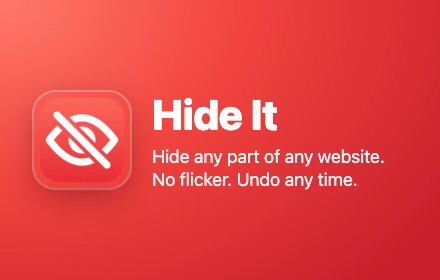
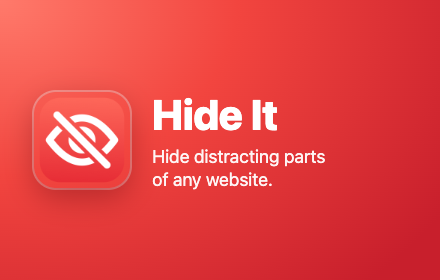
[main] - Tagline: hide distracting parts

Changed region(s): [[0.325, 0.5143, 0.8864, 0.6857]]

diff --git a/store/make-assets.js b/store/make-assets.js
@@ -136,7 +136,7 @@ function promoTile(icon) {
     <img src="${dataUrl(icon)}" style="width:96px;height:96px;border-radius:22px;box-shadow:0 10px 30px rgba(80,0,10,.35),0 0 0 2px rgba(255,255,255,.35)">
     <div>
       <div style="font-size:42px;font-weight:800;letter-spacing:-.5px">Hide It</div>
-      <div style="margin-top:6px;font-size:18px;line-height:1.3;opacity:.95">Hide any part of any website.<br>No flicker. Undo any time.</div>
+      <div style="margin-top:6px;font-size:18px;line-height:1.3;opacity:.95">Hide distracting parts<br>of any website.</div>
     </div>
   </body></html>`;
 }

diff --git a/store/LISTING.md b/store/LISTING.md
@@ -7,14 +7,14 @@ Images: `store/assets/` (re-render with `node store/make-assets.js`).
 
 **Name:** Hide It
 
-**Summary** (same as the manifest description, 89/132 chars):
-Hide parts of websites. Hidden elements stay hidden and never show up while a page loads.
+**Summary** (same as the manifest description, 90/132 chars):
+Hide distracting parts of websites. They stay hidden and never show up while a page loads.
 
 **Category:** Productivity → Tools · **Language:** English
 
 **Description:**
 
-Hide sidebars, suggestion boxes, promos or anything else on a website. They stay hidden every time you come back, and they don't show up while the page loads.
+Hide distracting content on websites: sidebars, suggestion boxes, promos or anything else. It stays hidden every time you come back and doesn't show up while the page loads.
 
 How to use it:
 • Click the icon or press Alt+Shift+H, then point at the page.

diff --git a/README.md b/README.md
@@ -1,6 +1,6 @@
 # Hide It
 
-A Chrome extension for hiding parts of websites. Hidden elements stay hidden on every visit and don't show up while the page loads.
+A Chrome extension for hiding distracting parts of websites. They stay hidden on every visit and don't show up while the page loads.
 
 ![Before and after](docs/before-after.png)
 
